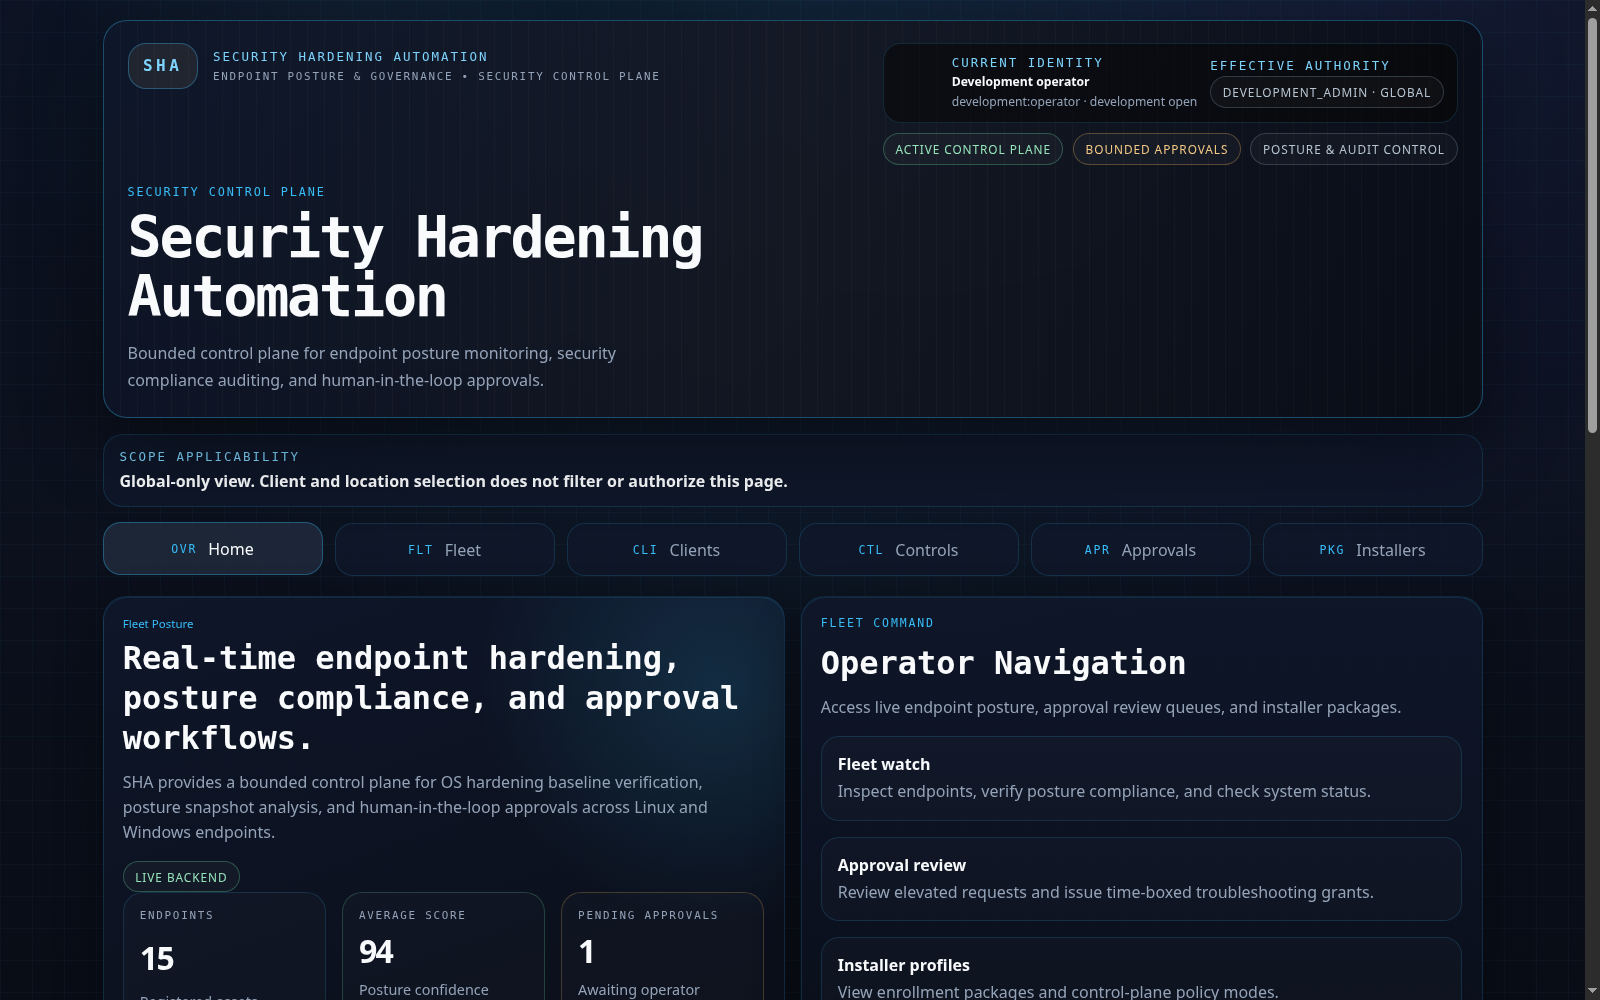
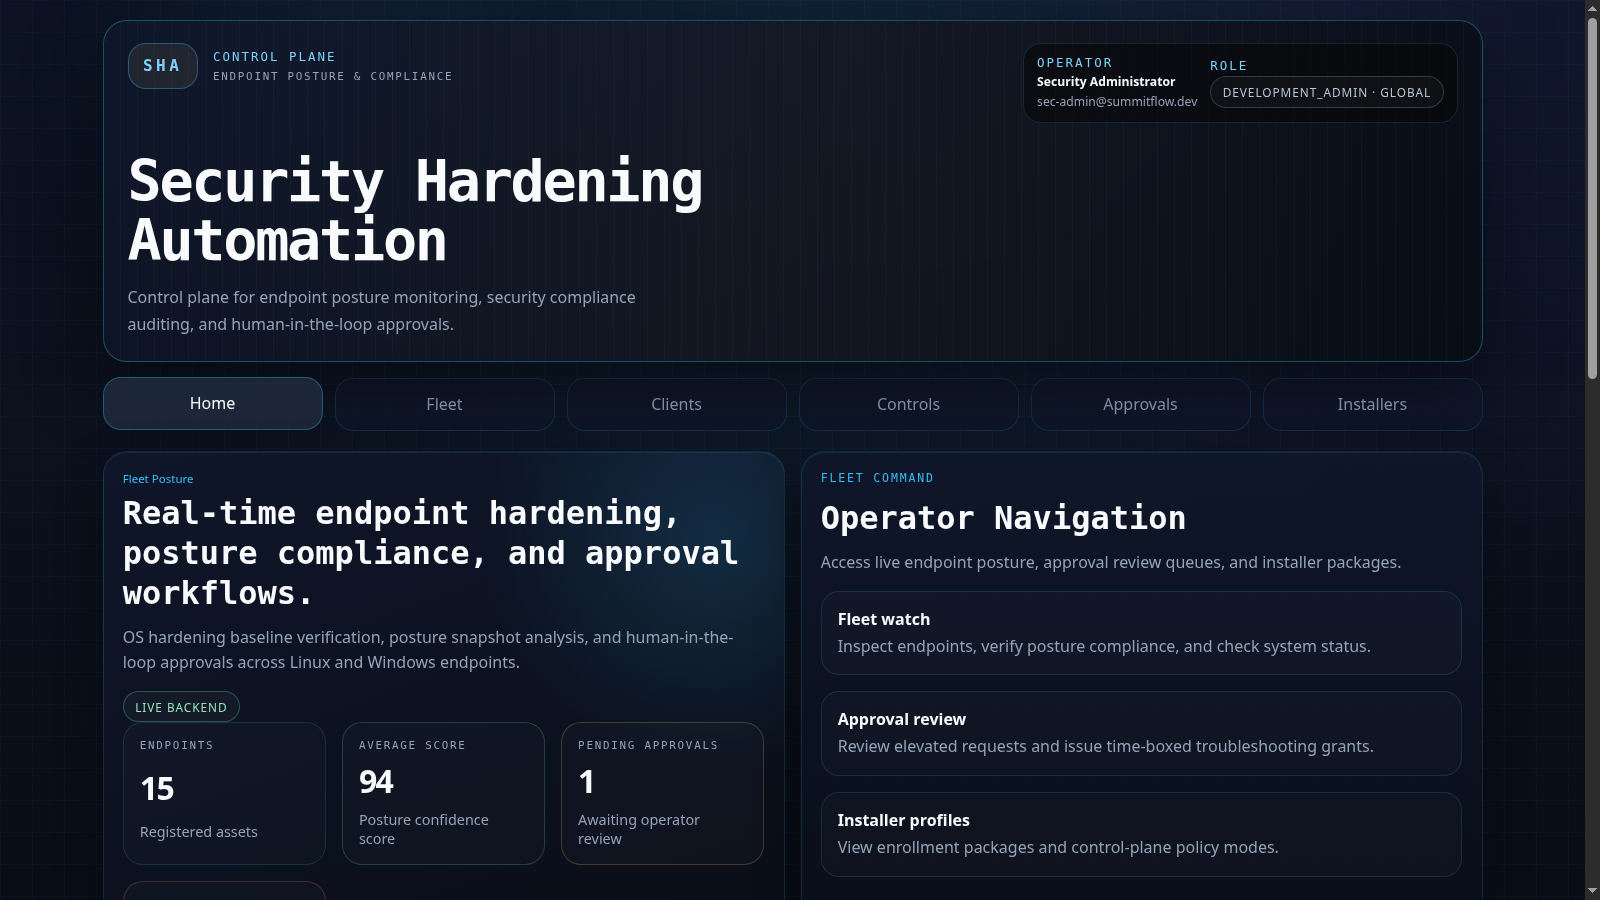
docs: update SHA screenshot with sec-admin@summitflow.dev domain and clean control plane UI

diff --git a/README.md b/README.md
@@ -42,7 +42,7 @@ Public repositories spanning AI automation, security automation, agentic develop
 
 [Repository](https://github.com/elias-leslie/sha) · [README](https://github.com/elias-leslie/sha/blob/main/README.md) · [Security policy](https://github.com/elias-leslie/sha/blob/main/SECURITY.md)
 
-![SHA security control plane dashboard smoke test](./docs/images/sha-control-plane-dashboard.png)
+![SHA security control plane dashboard smoke test](./docs/images/sha-control-plane-live.png)
 
 - **Problem:** Endpoint hardening often becomes a brittle mix of one-off scripts, undocumented baseline assumptions, risky remote access, and unclear rollback paths.
 - **Solution:** SHA models hardening as a bounded control plane: enroll endpoints, collect posture, browse curated controls, generate installer profiles, and route disruptive work through approval requests/grants.

diff --git a/docs/index.md b/docs/index.md
@@ -47,7 +47,7 @@ Public repositories spanning AI automation, security automation, agentic develop
 
 [Repository](https://github.com/elias-leslie/sha) · [README](https://github.com/elias-leslie/sha/blob/main/README.md) · [Security policy](https://github.com/elias-leslie/sha/blob/main/SECURITY.md)
 
-![SHA security control plane dashboard smoke test](./images/sha-control-plane-dashboard.png)
+![SHA security control plane dashboard smoke test](./images/sha-control-plane-live.png)
 
 - **Problem:** Endpoint hardening often becomes a brittle mix of one-off scripts, undocumented baseline assumptions, risky remote access, and unclear rollback paths.
 - **Solution:** SHA models hardening as a bounded control plane: enroll endpoints, collect posture, browse curated controls, generate installer profiles, and route disruptive work through approval requests/grants.
